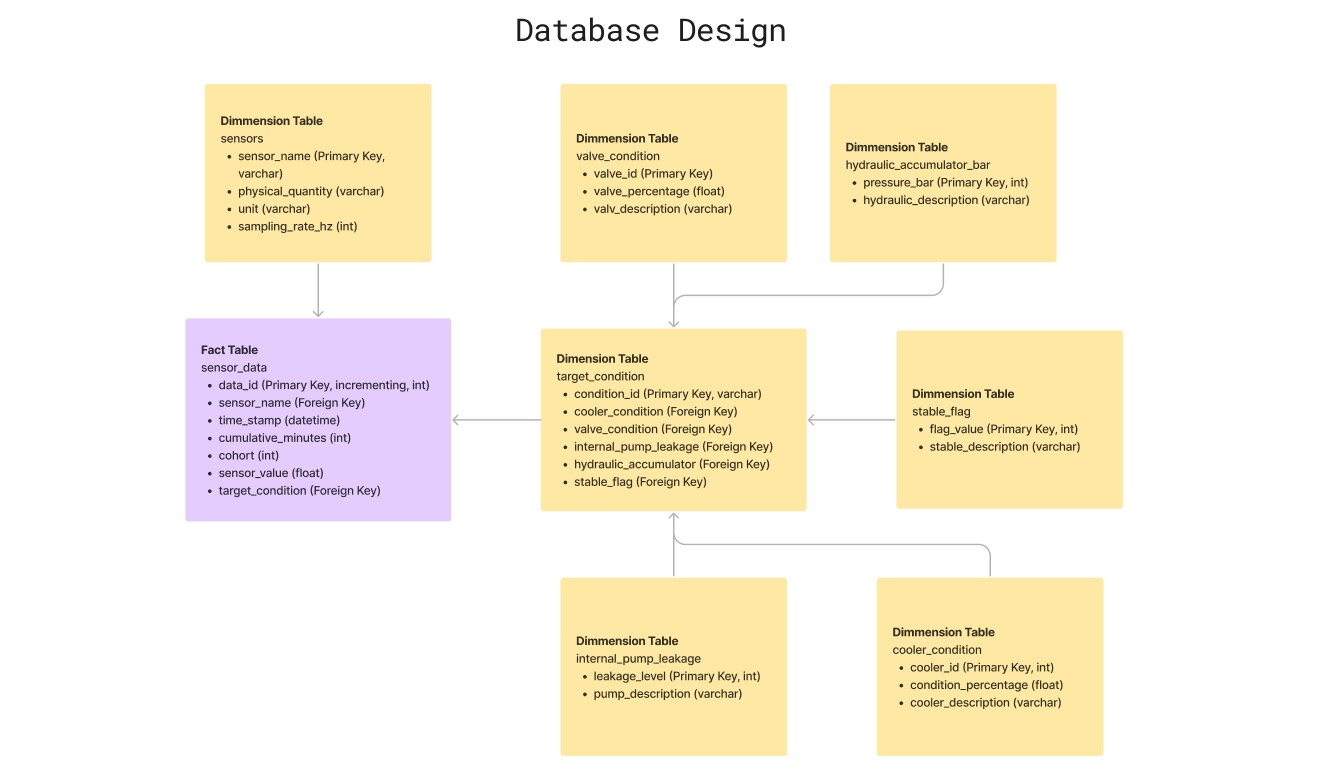
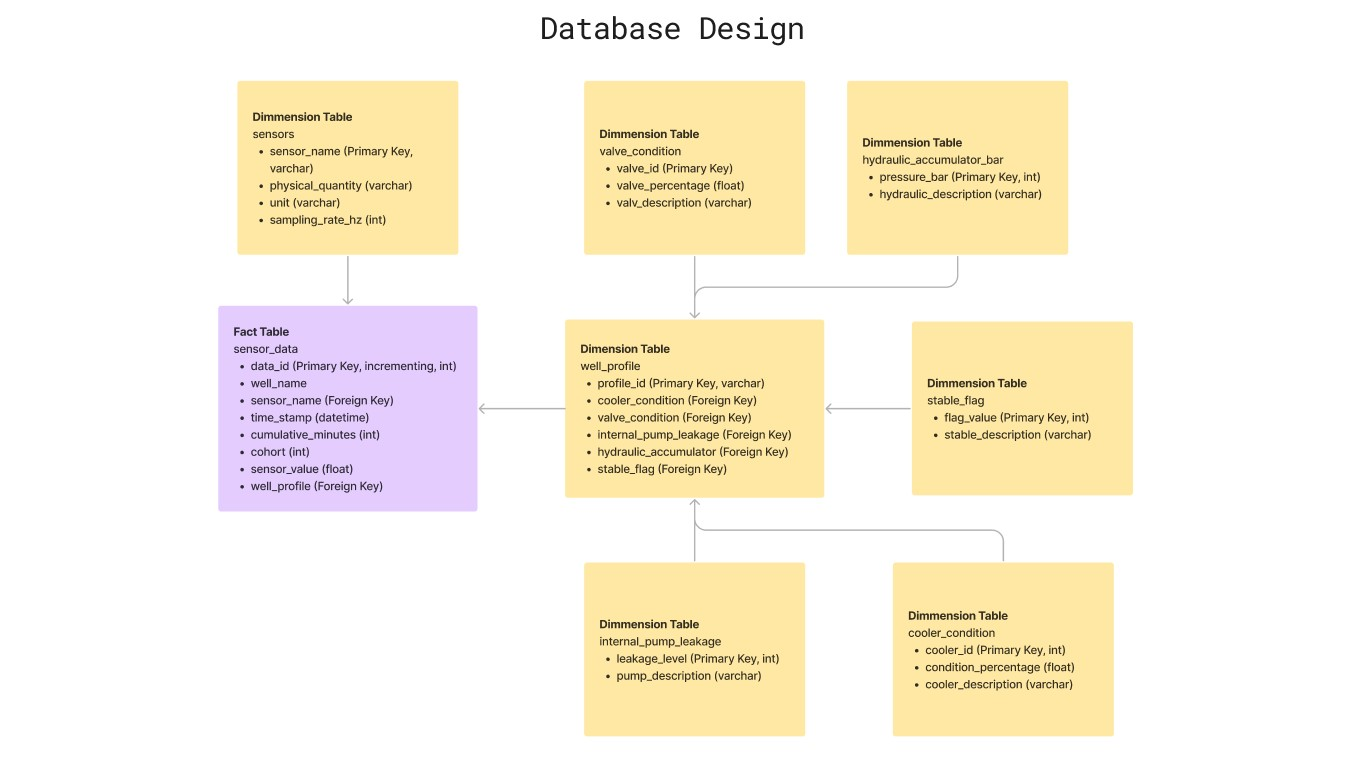
image readme

Changed region(s): [[0.1221, 0.0911, 0.8548, 1.0], [0.1526, 0.0911, 0.3663, 0.3646], [0.3663, 0.0304, 0.6106, 0.0608]]

diff --git a/README.md b/README.md
@@ -10,7 +10,7 @@ Oil wells can make $500,000+ / day, so these machines are highly valuable. Makin
 
 The data set comes from a real hydraulic rig system. This hydraulic rig is used to drill oil out of the ground. It has 4 main controls: the cooler setting, the valve setting, the pump setting, and the accumulator setting. The rig has sensors in different areas measuring the pressure, volumetric flows, and temperatures.
 
-The technicians have been storing the oil well tests in text files locally, the data scientists would like to review the data but it's not in an ideal format. 
+The technicians have been running tests for maintenance and the data scientists believe the data may be useful for additional oil well analysis. 
 1. Convert the files to CSV for the data scientist.
     * See the example template CSV for the desired format.
     * Merge profile data.
@@ -22,14 +22,15 @@ The technicians have been storing the oil well tests in text files locally, the 
     
 
 ### Starting Knowledge
-1. There are 15 years' worth of data.
-2. The start date is 3/26/2008.
-3. Data collection:
+1. There are 16 oil wells.
+1. The start date is 4/26/2018.
+1. Tests are run in 3-month cohorts
+1. Data collection:
     * All changes must be done after you receive the data.
     * The data is collected in 3-month cohorts starting at midnight on the first day. 
     * The last day will be a few hours short for scheduled maintenance after each cohort.
-4. There is only one profile.txt, reuse the data for each cohort.
-5. The scientists use AWS Sagemaker.
+1. There is only one profile.txt; reuse the data for each oil well.
+1. The scientists use AWS Sagemaker.
 
 ## System Design
 * Data: 
@@ -61,7 +62,7 @@ The technicians have been storing the oil well tests in text files locally, the 
 
 # Implementation
 ###### Infrastructure
-1. Docker image MySQL
+1. Docker official MySQL image
 1. Run the `db_creation.sql` query; create the database in MySQL.
 1. Create an AWS S3 bucket using AWS command line / Terraform with `s3-terraform.tf`.
 ###### ETL
